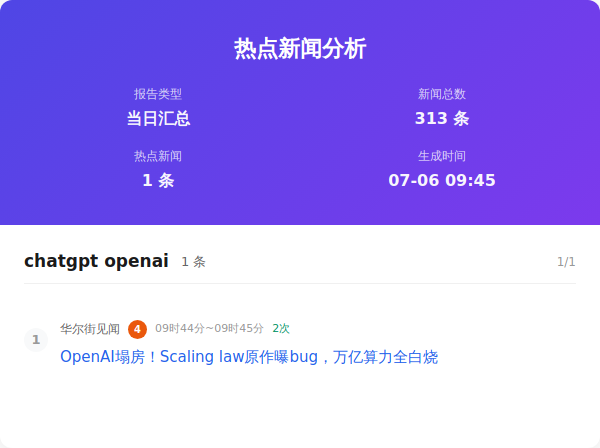
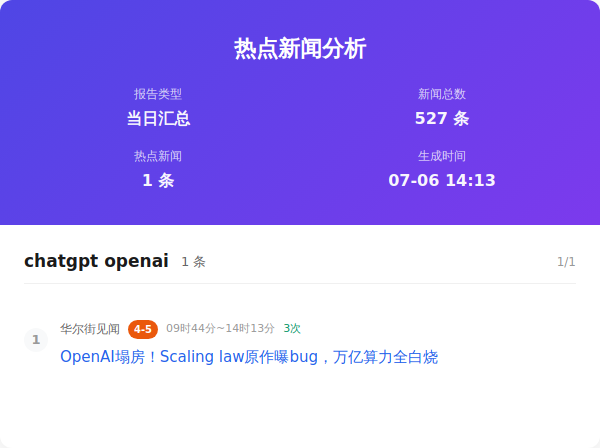
Auto update by GitHub Actions at Mon Jul  6 14:13:53 CST 2026

Changed region(s): [[0.24, 0.7188, 0.51, 0.7812], [0.72, 0.375, 0.84, 0.4375], [0.69, 0.25, 0.75, 0.2812]]

diff --git a/output/2026年07月06日/html/当日汇总.html b/output/2026年07月06日/html/当日汇总.html
@@ -357,7 +357,7 @@
                     </div>
                     <div class="info-item">
                         <span class="info-label">新闻总数</span>
-                        <span class="info-value">313 条</span>
+                        <span class="info-value">527 条</span>
                     </div>
                     <div class="info-item">
                         <span class="info-label">热点新闻</span>
@@ -365,7 +365,7 @@
                     </div>
                     <div class="info-item">
                         <span class="info-label">生成时间</span>
-                        <span class="info-value">07-06 09:45</span>
+                        <span class="info-value">07-06 14:13</span>
                     </div>
                 </div>
             </div>
@@ -383,7 +383,7 @@
                         <div class="news-number">1</div>
                         <div class="news-content">
                             <div class="news-header">
-                                <span class="source-name">华尔街见闻</span><span class="rank-num high">4</span><span class="time-info">09时44分~09时45分</span><span class="count-info">2次</span>
+                                <span class="source-name">华尔街见闻</span><span class="rank-num high">4-5</span><span class="time-info">09时44分~14时13分</span><span class="count-info">3次</span>
                             </div>
                             <div class="news-title"><a href="https://wallstreetcn.com/articles/3776218" target="_blank" class="news-link">OpenAI塌房！Scaling law原作曝bug，万亿算力全白烧</a>
                             </div>